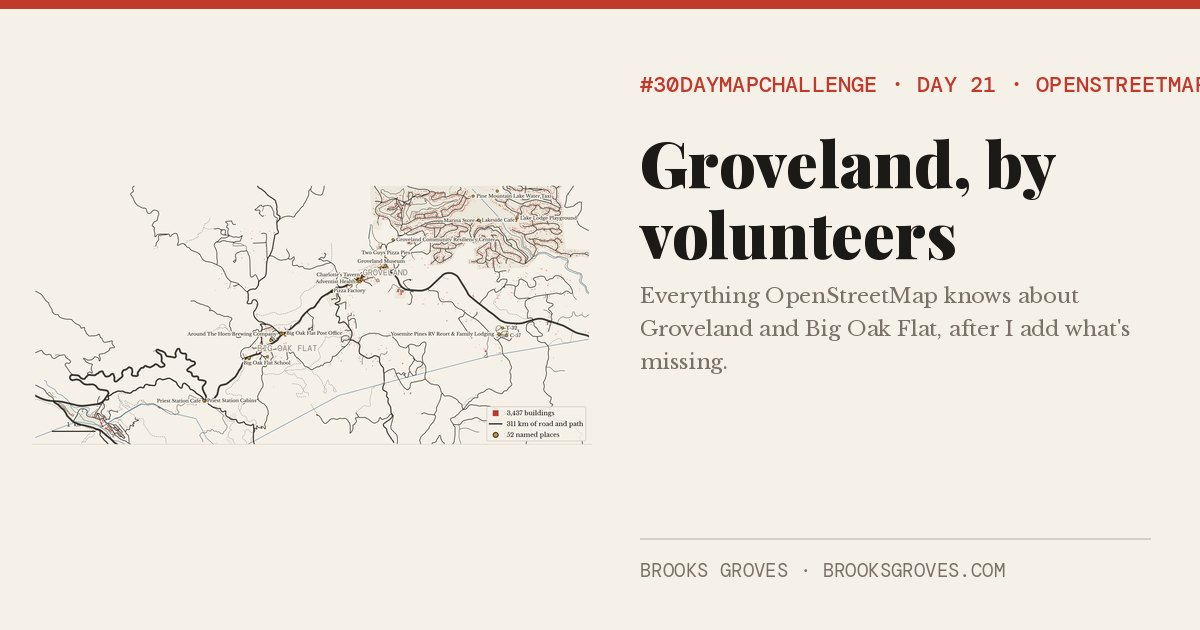
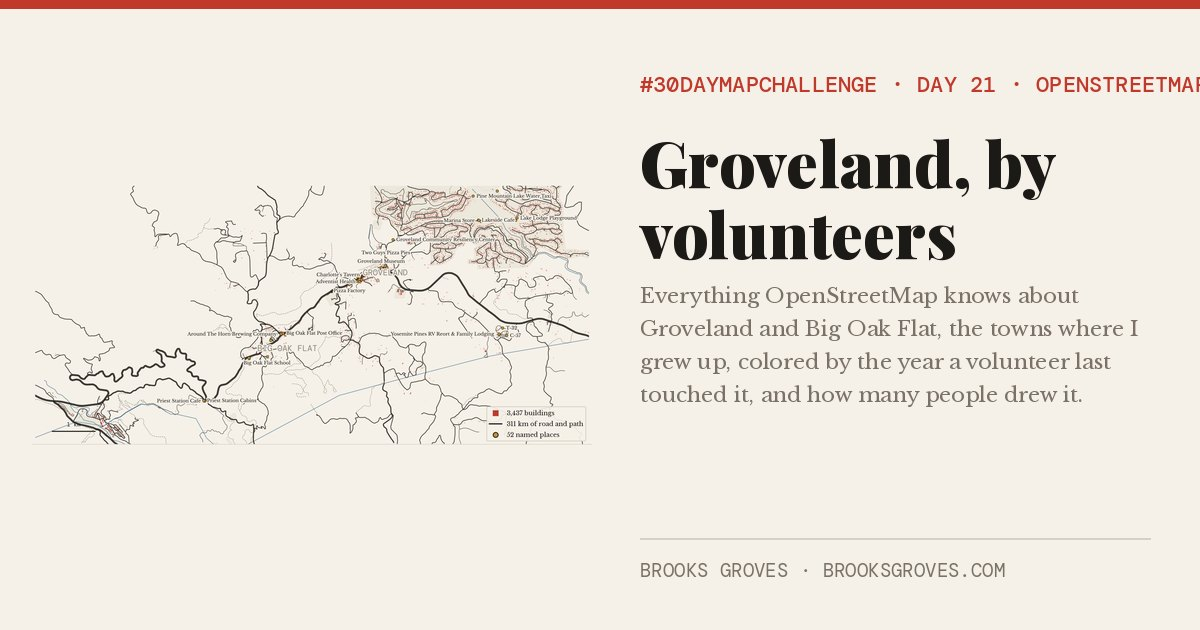
Day 21: Groveland colored by when volunteers last edited it, and how many drew it
Claude-Session: https://claude.ai/code/session_01XT8v9DF68cFLbibUaHUWWu

Changed region(s): [[0.5242, 0.5127, 0.9558, 0.6635]]

diff --git a/2026/day-21-openstreetmap/make.py b/2026/day-21-openstreetmap/make.py
@@ -2,9 +2,11 @@
 Day 21 · OpenStreetMap — Groveland, by volunteers
 
 Everything OpenStreetMap holds for Groveland and Big Oak Flat, the two old gold-rush towns on
-Highway 120 where I grew up, drawn straight from the raw data with nothing added: every
-building, road, path, stream and named place volunteers have mapped. The map is a draft of
-"before": the plan is to spend an October evening adding what's missing, then draw it again.
+Highway 120 where I grew up, drawn straight from the raw data with nothing added, and colored by
+when a volunteer last touched it. Overpass's "out meta" gives every feature its last-edit date,
+its version and the account that made that edit; the map shows the dates, and the panel counts
+the people (never their names). Version 1 means nobody has edited it since it was first drawn.
+Any edits I make before posting simply show up as 2026.
 
 Downloads (cached in data/): OpenStreetMap via the Overpass API.
 """
@@ -30,17 +32,17 @@ BBOX = (37.806, -120.317, 37.856, -120.171)            # S, W, N, E: Big Oak Fla
 OVERPASS = "https://overpass-api.de/api/interpreter"
 REFRESH = "--refresh" in sys.argv                       # re-download after editing OSM
 
-name = "groveland_wide.json"
+name = "groveland_meta.json"
 if REFRESH and (DATA / name).exists():
     (DATA / name).unlink()
-q = f"[out:json][timeout:180];nwr({','.join(map(str, BBOX))});out geom;"
+q = f"[out:json][timeout:180];nwr({','.join(map(str, BBOX))});out meta geom;"
 js = json.loads(fetch.get(OVERPASS + "?" + urllib.parse.urlencode({"data": q}), DATA / name, timeout=300))
 els = js["elements"]
 stamp = js.get("osm3s", {}).get("timestamp_osm_base", "")[:10]
 
 polys, lines, points = [], [], []
 for e in els:
-    t = e.get("tags", {})
+    t = {**e.get("tags", {}), "_year": int(e.get("timestamp", "1900")[:4]), "_v": e.get("version", 1)}
     if e["type"] == "node":
         if t:
             points.append({"geometry": Point(e["lon"], e["lat"]), **t})
@@ -76,20 +78,33 @@ kinds = Counter(e["type"] for e in els)
 print(f"= OSM {stamp}: {len(els):,} elements ({dict(kinds)}); {len(bld):,} buildings, {road_km:.0f} km of highway=*, "
       f"{len(named)} named places, {len(water)} waterways")
 
+# who and when
+feat = [e for e in els if e.get("tags") or e["type"] != "node"]   # untagged nodes are just way vertices
+mappers = len({e.get("uid") for e in feat if e.get("uid")})
+years = Counter(int(e["timestamp"][:4]) for e in feat if e.get("timestamp"))
+v1 = sum(1 for e in feat if e.get("version") == 1) / max(1, len(feat))
+y0, y1 = min(years), max(years)
+oldest_b = int(bld["_year"].min()) if len(bld) else y0
+print(f"= {len(feat):,} features by {mappers} mappers, edited {y0}-{y1}; {v1:.0%} still version 1; "
+      f"buildings last touched {dict(sorted(Counter(bld['_year']).items()))}")
+
 # ── map ──────────────────────────────────────────────────────────────────────
-fig, ax = dmc.figure("wide", map_box=(0.03, 0.08, 0.94, 0.72))
+import numpy as np  # noqa: E402
+from matplotlib.colors import LinearSegmentedColormap, Normalize  # noqa: E402
+RAMP = LinearSegmentedColormap.from_list("yr", ["#cfc3a6", "#c8922a", "#c0392b", "#6e1f17", "#2b1a3a"])
+NORM = Normalize(y0, y1)
+yc = lambda g: RAMP(NORM(g["_year"].to_numpy()))  # noqa: E731
+fig, ax = dmc.figure("wide", map_box=(0.03, 0.08, 0.64, 0.72))
 GREEN = {"forest", "wood", "grass", "meadow", "scrub", "park", "golf_course", "recreation_ground", "pitch", "cemetery"}
 
 
 def fill(r):
     kind = r.get("landuse") or r.get("leisure") or r.get("natural") or r.get("amenity")
     if kind in GREEN:
-        return "#dde3cf"
+        return "#e4e6d8"
     if kind == "water":
-        return "#cfe0e6"
-    if kind == "parking":
-        return "#e6e0d4"
-    return dmc.CREAM
+        return "#d8e4e8"
+    return "#ebe5d8"
 
 
 if len(land):
@@ -99,41 +114,55 @@ W = {"motorway": 2.4, "trunk": 2.2, "primary": 2.2, "secondary": 1.6, "tertiary"
 for kind, g in roads.groupby(col(roads, "highway")):
     w = W.get(kind, 0.4)
     dashed = kind in ("track", "path", "footway", "bridleway", "cycleway")
-    g.plot(ax=ax, color=dmc.STONE if dashed else dmc.INK, lw=w, ls="dashed" if dashed else "solid",
-           alpha=0.85, zorder=3 if w > 1 else 2)
-water.plot(ax=ax, color=dmc.LAKE, lw=0.6, alpha=0.8, zorder=2)
-bld.plot(ax=ax, color=dmc.LAVA, lw=0, zorder=4)
-named.plot(ax=ax, color=dmc.GOLD, markersize=10, edgecolor=dmc.INK, lw=0.4, zorder=5)
+    g.plot(ax=ax, color=yc(g), lw=w, ls="dashed" if dashed else "solid", zorder=3 if w > 1 else 2)
+water.plot(ax=ax, color=dmc.LAKE, lw=0.6, alpha=0.6, zorder=2)
+bld.plot(ax=ax, color=yc(bld), lw=0, zorder=4)
+named.plot(ax=ax, color=yc(named), markersize=12, edgecolor=dmc.INK, lw=0.4, zorder=5)
 b = gpd.GeoSeries([Point(BBOX[1], BBOX[0]), Point(BBOX[3], BBOX[2])], crs=4326).to_crs(CRS)
-ax.set_xlim(b.iloc[0].x, b.iloc[1].x)
-ax.set_ylim(b.iloc[0].y, b.iloc[1].y)
+cx, cy = (b.iloc[0].x + b.iloc[1].x) / 2, (b.iloc[0].y + b.iloc[1].y) / 2
+bw = ax.get_position().width * fig.get_figwidth()
+bh = ax.get_position().height * fig.get_figheight()
+hy = (b.iloc[1].y - b.iloc[0].y) / 2
+ax.set_xlim(cx - hy * bw / bh, cx + hy * bw / bh)
+ax.set_ylim(cy - hy, cy + hy)
 ax.set_aspect("equal")
 ax.apply_aspect()
-# label what fits without overlapping: schools, museums and civic places first, then the rest
-rank = lambda r: 0 if (r.get("amenity") in ("school", "library", "townhall", "post_office", "fire_station")  # noqa: E731
-                       or r.get("tourism") == "museum" or r.get("historic")) else 1
-items = sorted(((rank(r), r["name"], r.geometry.x, r.geometry.y) for _, r in named.iterrows()))
-taken, seen = [], set()
+taken = []
 towns = [(*gpd.GeoSeries([Point(lon, lat)], crs=4326).to_crs(CRS).iloc[0].coords[0], nm)
          for nm, lon, lat in [("GROVELAND", -120.2305, 37.8395), ("BIG OAK FLAT", -120.2585, 37.8245)]]
-dmc.place_labels(ax, towns, gap=0, taken=taken, size=10, family=dmc.MONO, color="#8a8378", halo=dmc.PARCHMENT, zorder=7)
-items = [i for i in items if not (i[1] in seen or seen.add(i[1]))]          # one label per name
-placed = dmc.place_labels(ax, [(x, y, n) for _, n, x, y in items], taken=taken, size=5.6, zorder=6)
-print(f"  labeled {len(placed)} of {len(named)} named places")
+dmc.place_labels(ax, towns, gap=0, taken=taken, size=10, family=dmc.MONO, color="#6b6560", halo=dmc.PARCHMENT, zorder=7)
 dmc.scalebar(ax, 1, loc=(0.03, 0.05))
-from matplotlib.lines import Line2D  # noqa: E402
-ax.legend(handles=[Line2D([], [], marker="s", ls="", color=dmc.LAVA, label=f"{len(bld):,} buildings"),
-                   Line2D([], [], color=dmc.INK, lw=1.4, label=f"{road_km:.0f} km of road and path"),
-                   Line2D([], [], marker="o", ls="", color=dmc.GOLD, mec=dmc.INK, label=f"{len(named)} named places")],
-          loc="lower right", fontsize=7.5, frameon=True, facecolor=dmc.PARCHMENT, edgecolor=dmc.MIST, framealpha=0.92)
+
+# panel: the color key as a bar chart of features by the year they were last edited
+px = 0.70
+fig.text(px, 0.775, f"{mappers}", family=dmc.TITLE, weight=900, size=40, color=dmc.LAVA, va="top")
+fig.text(px, 0.665, f"volunteers drew this map. {len(feat):,} features,\nlast edited between {y0} and {y1}.\n"
+         f"{v1:.0%} haven't been touched since they were drawn.", size=8.5, color=dmc.INK, va="top", linespacing=1.6)
+cax = fig.add_axes((px, 0.17, 0.26, 0.32))
+ys = np.arange(y0, y1 + 1)
+cax.bar(ys, [years.get(y, 0) for y in ys], color=RAMP(NORM(ys)), width=0.8)
+for sp in ("top", "right", "left"):
+    cax.spines[sp].set_visible(False)
+cax.spines["bottom"].set_color(dmc.MIST)
+cax.tick_params(labelsize=6.5, colors=dmc.STONE, length=2)
+cax.set_yticks([])
+cax.set_xticks([t for t in range(y0, y1 + 1) if t % 4 == y1 % 4])
+for tl in cax.get_xticklabels():
+    tl.set_fontfamily(dmc.MONO)
+top = max(years, key=years.get)
+cax.text(top, years[top], f"{years[top]:,}", ha="center", va="bottom", family=dmc.MONO, size=6.5, color=dmc.INK)
+fig.text(px, 0.515, "FEATURES BY THE YEAR THEY WERE LAST EDITED", family=dmc.MONO, size=6.8, color=dmc.STONE)
+fig.text(px, 0.495, "Each is drawn in its year's color on the map.", size=6.8, style="italic", color=dmc.STONE)
 
 dmc.frame(
     fig, DAY,
-    subtitle=(f"Everything OpenStreetMap's volunteers have mapped in the two gold-rush towns on Highway 120 where I grew up:\n"
-              f"{len(bld):,} buildings, {road_km:.0f} km of road and path, {len(named)} named places. Before I add what's missing."),
+    subtitle=(f"Everything OpenStreetMap's volunteers have mapped in the two gold-rush towns on Highway 120 where I grew up,\n"
+              f"{len(bld):,} buildings and {road_km:.0f} km of road and path, colored by the year someone last touched it."),
     source=f"© OpenStreetMap contributors (ODbL), via the Overpass API, data as of {stamp}",
-    note="Drawn from the raw OSM data with nothing added: what isn't here hasn't been mapped yet.",
+    note="Last edit, not first drawing: a road fixed last year shows last year. Mappers are counted, never named.",
 )
 dmc.save(fig, DAY, alt=(
-    f"Map of Groveland and Big Oak Flat, California, drawn only from OpenStreetMap: {len(bld):,} buildings in red, "
-    f"roads in black, paths dashed, streams in blue and {len(named)} named places in gold along Highway 120."))
+    f"Map of Groveland and Big Oak Flat, California, drawn only from OpenStreetMap: {len(bld):,} buildings, roads, paths "
+    f"and named places, each colored by the year it was last edited, from pale tan for {y0} to dark plum for {y1}. "
+    f"A panel says {mappers} volunteers drew it, {len(feat):,} features in all, {v1:.0%} untouched since first drawn, "
+    f"with a bar chart of features by year last edited; the busiest year is {top}."))

diff --git a/2026/day-21-openstreetmap/README.md b/2026/day-21-openstreetmap/README.md
@@ -5,7 +5,7 @@
 
 ## Groveland, by volunteers
 
-Everything OpenStreetMap knows about Groveland and Big Oak Flat, after I add what's missing.
+Everything OpenStreetMap knows about Groveland and Big Oak Flat, the towns where I grew up, colored by the year a volunteer last touched it, and how many people drew it.
 
 **Data**
 
@@ -13,7 +13,7 @@ Everything OpenStreetMap knows about Groveland and Big Oak Flat, after I add wha
 
 **Tools:** Python, osmnx
 
-**Prep:** Drafted as the before map, straight from Overpass. After an evening of OSM edits, re-render with make.py --refresh.
+**Prep:** Drafted from Overpass with edit metadata (out meta). Any OSM edits Brooks makes show up as 2026: re-render with make.py --refresh.
 
 **Go deeper**
 
